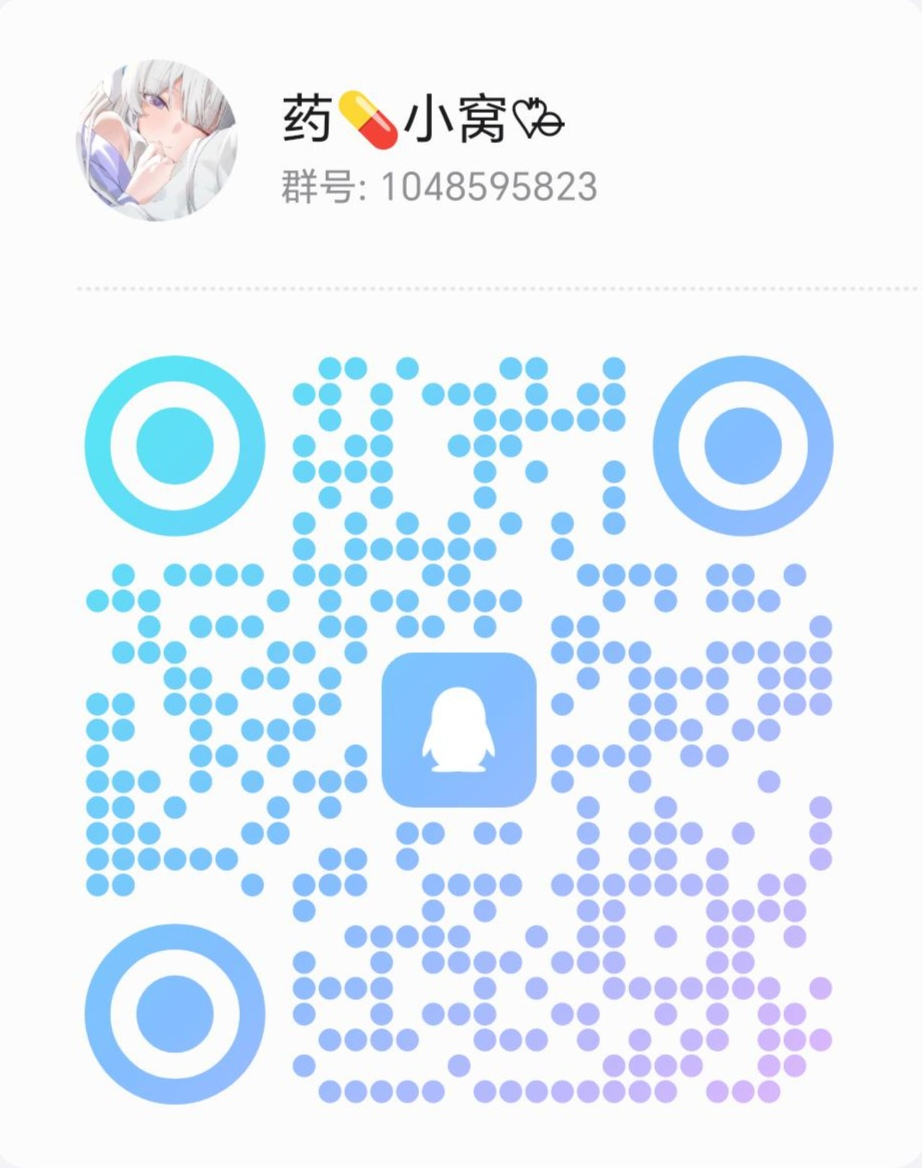
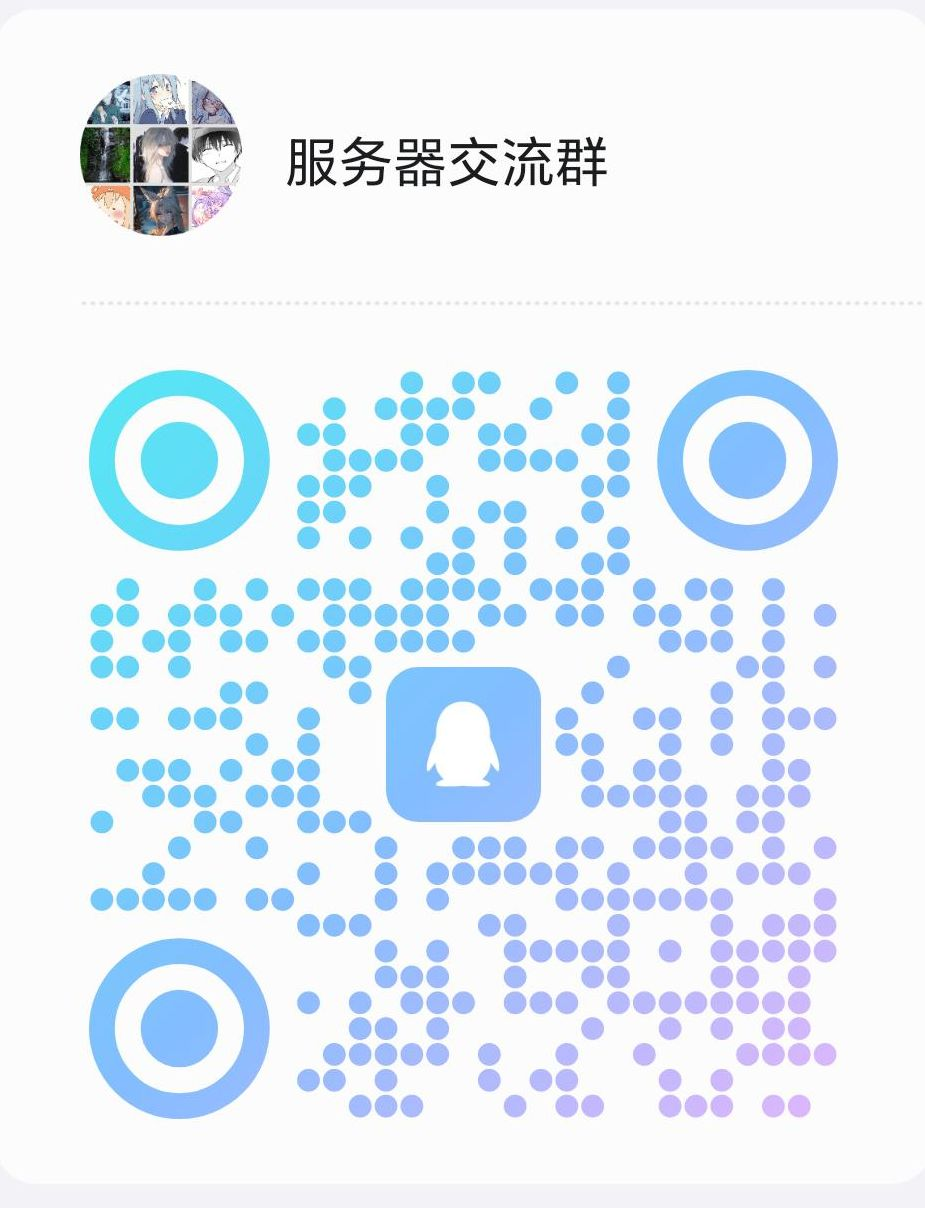
服务器合并，重写部分wiki内容

diff --git a/.vitepress/theme/components/notice.vue b/.vitepress/theme/components/notice.vue
@@ -14,14 +14,15 @@ setTimeout(function () { visible.value = false }, 10000);
   <div v-if="visible" class="notice">
     <h3 class="notice-title">网站公告</h3>
     <div class="notice-describe">
-      <p>祝贺药宁粉丝破5万！</p>
+      <p>热烈祝贺服务器合并</p>
       <p class="notice-domain">
-        <strong>
+        QQ群：1053348092
+<!--       <strong>
           点此前往B站：<a href="https://space.bilibili.com/2128068100?spm_id_from=333.337.0.0"
             target="_blank">https://space.bilibili.com/2128068100?spm_id_from=333.337.0.0</a>
-        </strong>
+        </strong>--> 
       </p>
-      <p>QQ群：1048595823</p>
+<!--       <p>QQ群：1053348092</p>-->
       <img class="notice-img" src="/qqcode.jpg">
     </div>
     <div class="notice-footer">

diff --git a/.vitepress/theme/index.ts b/.vitepress/theme/index.ts
@@ -24,8 +24,8 @@ export default {
     // 注册全局组件
     // 注册全局组件
     app.component('HomeUnderline' , HomeUnderline)
-    app.component('MouseClick' , MouseClick)
-    app.component('MouseFollower' , MouseFollower)
+//    app.component('MouseClick' , MouseClick)
+//    app.component('MouseFollower' , MouseFollower)
     app.component('Linkcard' , Linkcard)
     app.component('MinecraftStatus', MinecraftStatus)
     app.component('MNavLinks' , MNavLinks)

diff --git a/.vitepress/theme/GLayout.vue b/.vitepress/theme/GLayout.vue
@@ -53,8 +53,8 @@ provide("toggle-appearance", async ({ clientX: x, clientY: y }: MouseEvent) => {
     </template>
     <template #layout-top>
       <notice />
-      <MouseFollower />
-      <MouseClick />
+<!--      <MouseFollower />
+      <MouseClick />-->
     </template>
     <template #nav-bar-content-after>
       <a href="https://github.com/silencieuxzero/viteyaoning" style="padding: 0 12px">

diff --git a/.vitepress/theme/style/var.css b/.vitepress/theme/style/var.css
@@ -32,6 +32,13 @@
   transform: translateY(-5px);
 }
 
+.VPDoc h1 {
+  background: -webkit-linear-gradient(10deg, #bd34fe 5%, #47caff 40%);
+  background-clip: text;
+  -webkit-background-clip: text;
+  -webkit-text-fill-color: transparent;
+}
+
 /* 也可自行单独修改brand按钮 */
 /* :root {
   --vp-button-brand-border: #F6CEEC;

diff --git a/team/index.md b/team/index.md
@@ -11,11 +11,11 @@ import {
 
 const coreMembers = [
   {
-    avatar: '/mingze.jpg',
-    name: '茗泽',
+    avatar: '/wty.jpg',
+    name: 'wty',
     title: '服主',
     links: [
-      { icon: 'maildotru', link: 'mailto:1337679717@qq.com' }
+      { icon: 'maildotru', link: 'mailto:2459902380@qq.com' }
     ]
   },
   {
@@ -28,19 +28,19 @@ const coreMembers = [
     ]
   },
   {
-    avatar: '/canglang.jpg',
-    name: '沧浪',
-    title: '服务器后台配置文件管理',
+    avatar: '/xinglan.jpg',
+    name: '星蓝',
+    title: 'UP主',
     links: [
-      { icon: 'maildotru', link: 'mailto:930941666@qq.com' }
+      { icon: 'bilibili', link: 'https://space.bilibili.com/1396849646?spm_id_from=333.337.0.0' },
     ]
   },
   {
-    avatar: '/muxi.jpg',
-    name: '慕曦',
-    title: '服务器内部事件管理',
+    avatar: '/mingze.jpg',
+    name: '茗泽',
+    title: '服务器配置文件管理',
     links: [
-      { icon: 'maildotru', link: 'mailto:1542539885@qq.com' }
+      { icon: 'maildotru', link: 'mailto:1337679717@qq.com' }
     ]
   },
   {
@@ -49,6 +49,14 @@ const coreMembers = [
     title: '服务器内部事件管理',
     links: [
       { icon: 'maildotru', link: 'mailto:3434792375@qq.com' }
+    ]
+  },
+  {
+    avatar: '/AblazeGod_GZ.jpg',
+    name: 'AblazeGod_GZ',
+    title: '服务器内部事件管理',
+    links: [
+      { icon: 'maildotru', link: 'mailto:3808925388@qq.com' }
     ]
   },
   {
@@ -62,97 +70,9 @@ const coreMembers = [
 ]
 const qq = [
   {
-    avatar: '/荔枝.jpg',
-    name: '荔枝蛋糕',
-    title: '群聊管理员',
-    links: [
-
-    ]
-  },
-  {
-    avatar: '/duyu.jpg',
-    name: '杜豫isih',
-    title: 'UP导师',
-    links: [
-
-    ]
-  },
-  {
-    avatar: '/xiaokai.jpg',
-    name: '小凯不吃牛肉',
-    title: '不吃牛肉',
-    links: [
-
-    ]
-  },
-  {
-    avatar: '/白菜.jpg',
-    name: '白菜する',
-    title: '药政王',
-    links: [
-
-    ]
-  },
-  {
-    avatar: '/尘世.jpg',
-    name: '尘世乱游',
-    title: '试药员',
-    links: [
-
-    ]
-  },
-  {
-    avatar: '/枫.jpg',
-    name: '枫杺デス',
-    title: '群聊管理员',
-    links: [
-
-    ]
-  },
-  {
-    avatar: '/xiangyi.jpg',
-    name: '相依为命',
-    title: '群聊管理员',
-    links: [
-
-    ]
-  },
-  {
-    avatar: '/时鲤.jpg',
-    name: '时理',
-    title: '惨中人',
-    links: [
-
-    ]
-  },
-  {
-    avatar: '/AAA.jpg',
-    name: 'AAA异世界兽耳娘批发商',
-    title: '武神之刃',
-    links: [
-
-    ]
-  },
-  {
-    avatar: '/DD.jpg',
-    name: 'Dd～',
-    title: '药房老板',
-    links: [
-
-    ]
-  },
-  {
-    avatar: '/star.jpg',
-    name: '星河璀璨',
-    title: '星河不可及',
-    links: [
-
-    ]
-  },
-  {
-    avatar: '/zero.jpg',
-    name: '归零之歌',
-    title: '归零砭坊',
+    avatar: '/zhouzhou.jpg',
+    name: '周周',
+    title: '游戏内op',
     links: [
 
     ]
@@ -188,8 +108,8 @@ const partners = [
   </VPTeamPageTitle>
   <VPTeamMembers size="medium" :members="coreMembers" />
     <VPTeamPageSection>
-    <template #title>Q群管理员</template>
-    <template #lead>群抽象大师</template>
+    <template #title>游戏内管理</template>
+    <template #lead>急需完善</template>
     <template #members>
       <VPTeamMembers size="small" :members="qq" />
     </template>

diff --git a/other/railway.md b/other/railway.md
@@ -6,12 +6,16 @@ description: 不经计划的施工只会带来灾难
 ::: info 安全第一，生产第二！
 这里将放置施工方案。
 :::
-## 小镇与铁路网建设计划<Badge type="tip" text="一期" /><Badge type="warning" text="基本建设完成" />
-### 小镇位置选址：
-![中央平原](/中央平原.jpg "简单示意图")
-图为中央平原<br>
-1. 首先将小药的大别野建好，以此为中心，其他房屋辐射状分布，用石砖修道路，每五个格子安放路灯设施，地皮大小自定，先修房子再铺路。修建一个广场，选址为车站最前方。<br>
-1. 基础设施建造：车站建到小镇最北面，在广场放一些资源供救急使用。<br>
-1. 岛屿的利用：建造全自动化设施，鸡蛋塔，刷铁机，刷怪塔等一系列机器，玩家可以自由进出拿资源，以铁路连接，便于出行。<br>
-1. 农业方面：小镇东边大陆划区域为种植小麦等作物地区，并发展畜牧业。<br>
-1. 老玩家方面：以小镇为交通枢纽，向老玩家的屋子建造铁路，并设置车站，便于老玩家出行。<br>
+## 中央平原重建计划<Badge type="tip" text="一期工程" /><Badge type="warning" text="建设中" />
+### 前言：
+服务器合并之后，我们失去了中央平原，也失去了我们的一切，但所幸我们仍有机会将它们带回来。
+### 生产大纲
+1. 新中央平原坐标：X:-444 Y:80 Z:2000。<br>
+1. 完善村庄内基础设施，大量繁殖村民，并建造村民交易所以快速获取钻石装备。<br>
+1. 以铁路连接村庄与四周地区，在一定程度内扩展基地面积。<br>
+1. 农业方面可考虑发展畜牧业与自动化农田（主要作物为胡萝卜，以便后续建造猪人塔时制作大量金胡萝卜）。<br>
+1. 可在地狱进行第二维度基地扩张。<br>
+> 附录：药府等装饰性建筑延缓建造，当前主要目标为快速恢复旧中央平原的所有工业设施
+### 拓展规划
+1. 到中后期阶段可将地下挖空，建造地下城。
+1. 如有可能，后期可通过地狱交通等方式建造铁路枢纽。

diff --git a/index.md b/index.md
@@ -3,9 +3,9 @@
 layout: home
 
 hero:
-  name: "药宁的MC服务器wiki"
+  name: "MC服务器wiki"
   text: "和谐、纯净的生存服务器"
-  tagline: 使用Folia服务端，带给玩家流畅的游戏体验
+  tagline: 使用Leaves服务端，修复了被paper破坏的原版特性
   actions:
     - theme: brand
       text: 游玩准备
@@ -13,6 +13,9 @@ hero:
     - theme: alt
       text: 支持药宁
       link: https://space.bilibili.com/2128068100?spm_id_from=333.337.search-card.all.click
+    - theme: alt
+      text: 支持星蓝
+      link: https://space.bilibili.com/1396849646?spm_id_from=333.337.0.0
   image:
     src: /药宁.png
     alt: yaoning
@@ -20,10 +23,10 @@ hero:
 features:
   - title: 流畅游戏
     icon: 💻
-    details: 采用Folia服务端，带给玩家极致流畅的游戏体验。
+    details: 采用Leaves服务端，在不破坏原版特性的情况下保留paper高性能的优点。
   - title: 兼容性强
     icon: 🛠
-    details: 兼容1.21.x全版本，无需重新配置mod。
+    details: 兼容1.21.4及以上版本，无需重新配置mod。
   - title: 活跃社群
     icon: 🔋
     details: 管理员长期在线，及时响应。
@@ -49,7 +52,7 @@ QQ群：1048595823<br>
 [联系管理团队](https://yaoning-wiki.netlify.app/team/)
 :::
 
-## UP主最新视频
+<!--## UP主最新视频
 <iframe 
 style="width:80%; height=600; aspect-ratio:16/9; margin-top: 2em;" 
 src="//player.bilibili.com/player.html?isOutside=true&aid=114962718526010&bvid=BV1DVhgzGEme&cid=31454072304&p=1&autoplay=0" 
@@ -57,7 +60,7 @@ frameborder="0"
 scrolling="no"
 allow="accelerometer; autoplay; clipboard-write; encrypted-media; gyroscope; picture-in-picture; web-share" 
 allowfullscreen>
-</iframe>
+</iframe>-->
 
 <script setup>
 // import { ElCarousel, ElCarouselItem, ElImage, ElImageViewer } from 'element-plus';

diff --git a/guides/index.md b/guides/index.md
@@ -4,6 +4,9 @@ description: 启动游戏前的准备工作
 ---
 # 准备工作与注意事项
 
+::: warning 注意！⚠
+该页面部分内容仅适用于怀旧服，合并服玩家暂无需阅读本文。
+:::
 ::: info 工欲善其事必先利其器
 在开始游戏前，建议安装以下应用或mod以获得更好的游戏体验。请注意，本节内容包括以后的所有内容，除特别标注之外，__皆仅适用于Java版Minecraft__。
 :::

diff --git a/other/building.md b/other/building.md
@@ -3,6 +3,9 @@ title: 服务器的一些地标建筑与基础设施
 description: 交通是全服工业化的先决条件！
 ---
 # 服务器的一些地标建筑与基础设施
+::: warning 注意！⚠
+该内容仅适用于怀旧服，合并服玩家无需阅读本文。
+:::
 ::: info 交通是工业化的先决条件！
 如有玩家希望将自己的基地加入列表中，请私信文档作者。
 :::

diff --git a/guides/rule.md b/guides/rule.md
@@ -3,6 +3,9 @@ title: 服务器规则
 description: 无规矩，不成方圆
 ---
 # 服规与群规 <Badge type="warning" text="试运行" />
+::: warning 注意！⚠
+该内容仅适用于怀旧服，合并服玩家无需阅读本文。
+:::
 ::: info 不以规矩不能成方圆
 本节将会不定期更新，请以最新版本为准。
 :::

diff --git a/faq/index.md b/faq/index.md
@@ -3,6 +3,9 @@ title: 常见问题解答
 description: 疑难解答
 ---
 # 常见问题解答
+::: warning 注意！⚠
+该内容仅适用于怀旧服，合并服玩家无需阅读本文。
+:::
 ::: info 提问时间！
 本节将对一些常见问题进行解答，故文本将不定时更新。
 :::
